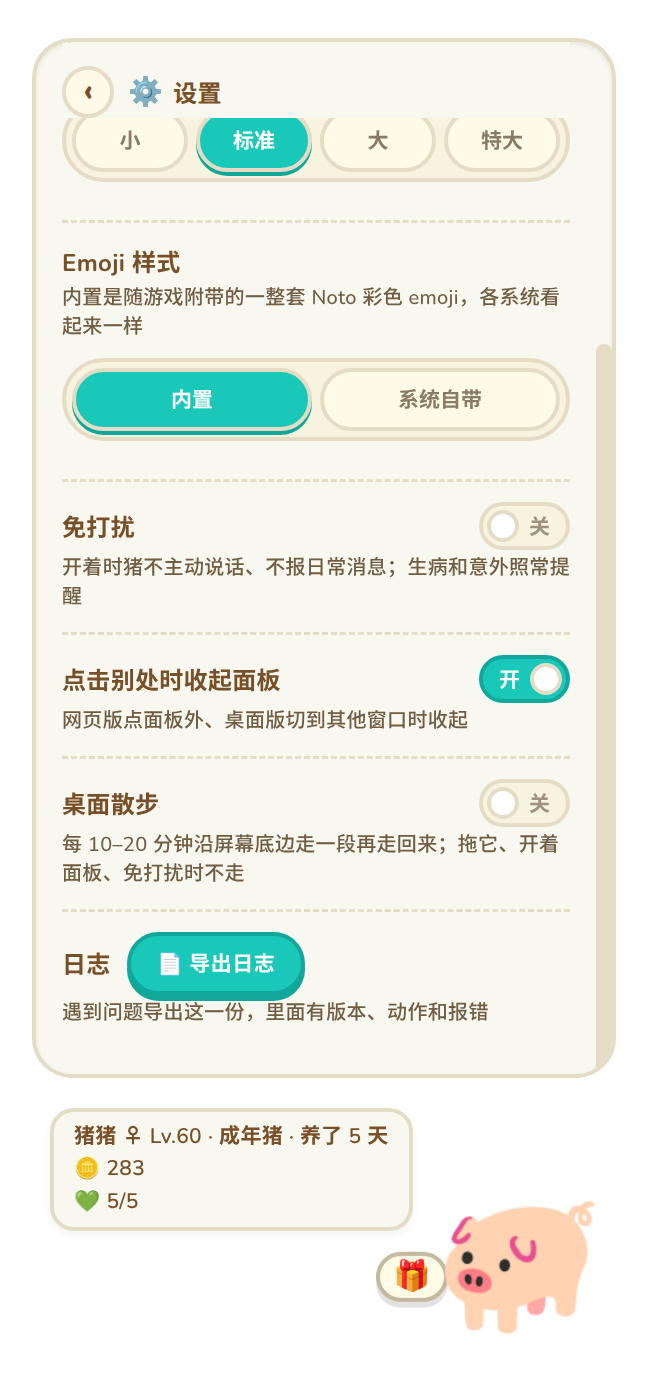
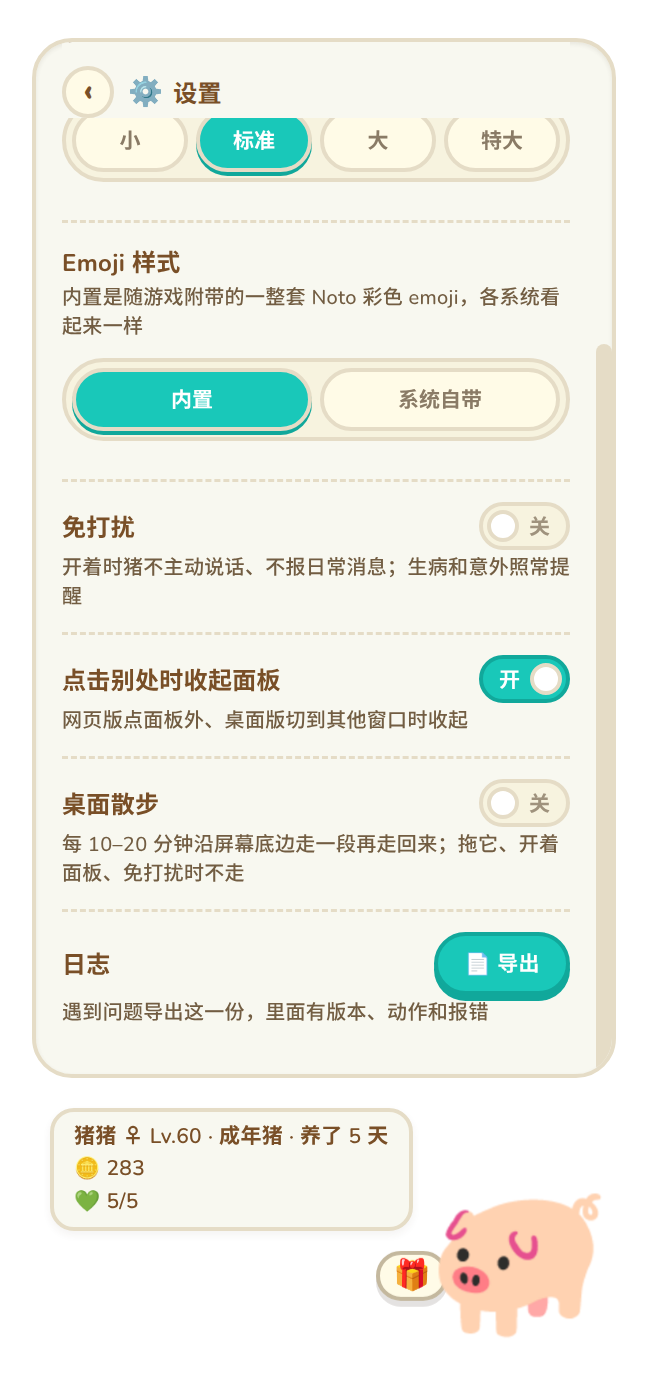
style(pig): 导出按钮和扩展失败提示对齐项目既有样式
- 设置里的导出按钮原来只有 dp-mini，没跟「更新 / 扩展」一样顶到右边
  （那两个是靠 dp-update-entry 的 margin-left:auto）。改成在 .dp-set-head 里
  统一给 .dp-mini 加 margin-left:auto，按钮文案也跟着「🔄 更新 / 🧩 扩展」
  改成「📄 导出」。
- 扩展下载失败不再自造一个带按钮的提示块：失败原因用跟「加载出错」同一个
  .dp-ext-note 小字，卡片上那一个按钮自己改叫「重试」，不新增按钮。
- 验收截图换成修正后的桌面版设置页。

diff --git a/client.js b/client.js
@@ -3896,8 +3896,6 @@
     ".dp-ext-intro{font-size:10.5px;line-height:1.5;color:var(--ac-text-2);margin:0 0 4px}",
     ".dp-ext-emoji{font-size:20px;line-height:1;margin-right:2px}",
     ".dp-ext-note{margin-top:6px;font-size:10px;font-weight:700;color:#c7781a}",
-    // 下载失败留在卡片上：左边原因、右边「重试」，别只闪一下气泡。
-    ".dp-ext-failed{display:flex;align-items:center;justify-content:space-between;gap:8px;color:#b4462a}",
     ".dp-ext-later{margin-top:12px;text-align:center;font-size:10px;color:var(--ac-text-2)}",
     ".dp-ext-section{display:flex;align-items:center;justify-content:space-between;margin:12px 2px 6px;font-size:11px;font-weight:800;color:var(--ac-text-2);letter-spacing:.04em}",
     ".dp-ext-actions{display:flex;align-items:center;justify-content:flex-start;gap:8px;margin-top:8px;flex-wrap:wrap}",
@@ -3910,6 +3908,8 @@
     ".dp-set:first-child{padding-top:2px}.dp-set:last-child{border-bottom:0}",
     ".dp-set-head{display:flex;flex-wrap:wrap;align-items:center;gap:2px 8px}",
     ".dp-set-head b{font-size:12px;color:var(--ac-text)}",
+    // 设置行里的按钮一律挂在最右边：标题和小字占左边，右边的操作顶到卡片边缘。
+    ".dp-set-head>.dp-mini{margin-left:auto;flex:none}",
     ".dp-set-head small{flex-basis:100%;order:3;font-size:10px;line-height:1.45}",
     ".dp-seg{display:flex;gap:4px;margin-top:8px;padding:3px;border-radius:var(--ac-pill);background:var(--ac-bg-content);",
     "border:2px solid var(--ac-border-light)}",
@@ -5398,16 +5398,9 @@
     });
   }
   var downloading = (key) => download.key === key;
-  function failedNote(ui, key) {
-    const note = el("div", "dp-ext-note dp-ext-failed");
-    note.appendChild(el("span", null, "\u6CA1\u88C5\u4E0A\uFF1A" + download.error));
-    const retry = button("dp-mini", { "data-ext-retry": key }, function() {
-      startInstall(ui, key);
-    });
-    retry.textContent = "\u91CD\u8BD5";
-    retry.disabled = download.key !== "";
-    note.appendChild(retry);
-    return note;
+  function installLabel(key, normal) {
+    if (downloading(key)) return "\u4E0B\u8F7D\u4E2D\u2026";
+    return download.failed === key ? "\u91CD\u8BD5" : normal;
   }
   function extensionUpdateAvailable(ui) {
     if (!online.loaded || online.stamp !== stampOf(ui.view)) loadOnline(ui, false);
@@ -5453,7 +5446,7 @@
     var note = extension.on ? closingNote(ui.view, extension.key) : "";
     if (note) card2.appendChild(el("div", "dp-ext-note", note));
     if (extension.error) card2.appendChild(el("div", "dp-ext-note", "\u52A0\u8F7D\u51FA\u9519\uFF1A" + extension.error));
-    if (download.failed === extension.key) card2.appendChild(failedNote(ui, extension.key));
+    if (download.failed === extension.key) card2.appendChild(el("div", "dp-ext-note", "\u6CA1\u88C5\u4E0A\uFF1A" + download.error));
     var newer = online.entries.find(function(entry) {
       return entry.key === extension.key && entry.update === true;
     });
@@ -5468,7 +5461,7 @@
       var update = button("dp-mini", { "data-ext-update": extension.key }, function() {
         startInstall(ui, extension.key);
       });
-      update.textContent = downloading(extension.key) ? "\u66F4\u65B0\u4E2D\u2026" : "\u66F4\u65B0\u5230 " + str(newer.version, "");
+      update.textContent = installLabel(extension.key, "\u66F4\u65B0\u5230 " + str(newer.version, ""));
       update.disabled = download.key !== "";
       row.appendChild(update);
     }
@@ -5526,12 +5519,12 @@
         var get = button("dp-mini", { "data-ext-install": entry.key }, function() {
           startInstall(ui, entry.key);
         });
-        get.textContent = downloading(entry.key) ? "\u4E0B\u8F7D\u4E2D\u2026" : entry.builtin ? "\u91CD\u65B0\u5B89\u88C5" : "\u4E0B\u8F7D";
+        get.textContent = installLabel(entry.key, entry.builtin ? "\u91CD\u65B0\u5B89\u88C5" : "\u4E0B\u8F7D");
         get.disabled = downloading(entry.key) || download.key !== "" || entry.blocked !== null && entry.blocked !== void 0;
         head.appendChild(get);
         if (entry.description) head.appendChild(el("small", "dp-dim", str(entry.description, "")));
         card2.appendChild(head);
-        if (download.failed === entry.key) card2.appendChild(failedNote(ui, entry.key));
+        if (download.failed === entry.key) card2.appendChild(el("div", "dp-ext-note", "\u6CA1\u88C5\u4E0A\uFF1A" + download.error));
         if (entry.blocked === "game-too-old") card2.appendChild(el("div", "dp-ext-note", "\u9700\u8981\u6E38\u620F v" + str(entry.minGame, "") + "\uFF0C\u5148\u66F4\u65B0\u6E38\u620F"));
         else if (entry.builtin) card2.appendChild(el("div", "dp-ext-note", "\u4EE3\u7801\u5728\u6E38\u620F\u91CC\uFF0C\u88C5\u56DE\u6765\u4E0D\u7528\u4E0B\u8F7D\uFF0C\u4ECE\u96F6\u5F00\u59CB"));
         else if (downloading(entry.key)) card2.appendChild(el("div", "dp-ext-note", "\u6B63\u5728\u4E0B\u8F7D\uFF0C\u7F51\u7EDC\u6162\u7684\u65F6\u5019\u8981\u7B49\u4E00\u4F1A\u513F"));
@@ -6735,7 +6728,7 @@
     const exportButton = button("dp-mini", { "data-export-logs": "true" }, function() {
       runExport(ui, exportButton);
     });
-    exportButton.textContent = "\u{1F4C4} \u5BFC\u51FA\u65E5\u5FD7";
+    exportButton.textContent = "\u{1F4C4} \u5BFC\u51FA";
     logs.head.appendChild(exportButton);
     if (exporting) exportButton.disabled = true;
   }

diff --git a/src/client/tabs/extensions.js b/src/client/tabs/extensions.js
@@ -71,15 +71,10 @@ function loadOnline(ui, force) {
 
 const downloading = key => download.key === key
 
-/** 下载失败留在卡片上：原因 + 一个「重试」，不用去猜刚才那下有没有生效。 */
-function failedNote(ui, key) {
-  const note = el('div', 'dp-ext-note dp-ext-failed')
-  note.appendChild(el('span', null, '没装上：' + download.error))
-  const retry = button('dp-mini', { 'data-ext-retry': key }, function () { startInstall(ui, key) })
-  retry.textContent = '重试'
-  retry.disabled = download.key !== ''
-  note.appendChild(retry)
-  return note
+/** 卡片上那个按钮的文案：正在下 / 上次失败改成重试 / 平时的名字。 */
+function installLabel(key, normal) {
+  if (downloading(key)) return '下载中…'
+  return download.failed === key ? '重试' : normal
 }
 
 /** 主菜单与设置共用的扩展更新红点。 */
@@ -121,7 +116,7 @@ function localCard(ui, extension) {
   var note = extension.on ? closingNote(ui.view, extension.key) : ''
   if (note) card.appendChild(el('div', 'dp-ext-note', note))
   if (extension.error) card.appendChild(el('div', 'dp-ext-note', '加载出错：' + extension.error))
-  if (download.failed === extension.key) card.appendChild(failedNote(ui, extension.key))
+  if (download.failed === extension.key) card.appendChild(el('div', 'dp-ext-note', '没装上：' + download.error))
   var newer = online.entries.find(function (entry) { return entry.key === extension.key && entry.update === true })
 
   // 开关和删除并排放在卡片左下（rc.1 反馈）。
@@ -134,7 +129,7 @@ function localCard(ui, extension) {
   row.appendChild(toggle)
   if (newer) {
     var update = button('dp-mini', { 'data-ext-update': extension.key }, function () { startInstall(ui, extension.key) })
-    update.textContent = downloading(extension.key) ? '更新中…' : '更新到 ' + str(newer.version, '')
+    update.textContent = installLabel(extension.key, '更新到 ' + str(newer.version, ''))
     update.disabled = download.key !== ''
     row.appendChild(update)
   }
@@ -174,12 +169,12 @@ function renderOnline(ui) {
       head.appendChild(el('span', 'dp-ext-emoji', str(entry.emoji, '🧩')))
       head.appendChild(el('b', null, str(entry.label, entry.key) + (entry.builtin ? ' · 内置' : ' ' + str(entry.version, ''))))
       var get = button('dp-mini', { 'data-ext-install': entry.key }, function () { startInstall(ui, entry.key) })
-      get.textContent = downloading(entry.key) ? '下载中…' : (entry.builtin ? '重新安装' : '下载')
+      get.textContent = installLabel(entry.key, entry.builtin ? '重新安装' : '下载')
       get.disabled = downloading(entry.key) || download.key !== '' || (entry.blocked !== null && entry.blocked !== undefined)
       head.appendChild(get)
       if (entry.description) head.appendChild(el('small', 'dp-dim', str(entry.description, '')))
       card.appendChild(head)
-      if (download.failed === entry.key) card.appendChild(failedNote(ui, entry.key))
+      if (download.failed === entry.key) card.appendChild(el('div', 'dp-ext-note', '没装上：' + download.error))
       if (entry.blocked === 'game-too-old') card.appendChild(el('div', 'dp-ext-note', '需要游戏 v' + str(entry.minGame, '') + '，先更新游戏'))
       else if (entry.builtin) card.appendChild(el('div', 'dp-ext-note', '代码在游戏里，装回来不用下载，从零开始'))
       else if (downloading(entry.key)) card.appendChild(el('div', 'dp-ext-note', '正在下载，网络慢的时候要等一会儿'))

diff --git a/test/extension-download-client.test.js b/test/extension-download-client.test.js
@@ -3,7 +3,7 @@
 import assert from 'node:assert/strict'
 import { test } from 'node:test'
 
-import { SNAPSHOT, contentOf, findByAttr, findByClass, mount, openPanel, settle } from './helpers/bundle.js'
+import { SNAPSHOT, contentOf, findByAttr, mount, openPanel, settle } from './helpers/bundle.js'
 
 const LOCAL = [
   { key: 'pomodoro', label: '番茄钟', on: true, installed: true, builtin: true, apps: ['pomodoro'], dexSections: [], shopKinds: [] },
@@ -46,7 +46,7 @@ test('点下载立刻显示「下载中…」并挡住重复点击', async () =>
   assert.equal(during.disabled, true)
 })
 
-test('下载失败留在卡片上，说清原因，并且能重试', async () => {
+test('下载失败留在卡片上，说清原因，按钮变成「重试」', async () => {
   const { dom, calls } = await openExtensions({
     status: { ...SNAPSHOT, extensions: LOCAL },
     onlineResponse: ONLINE,
@@ -54,11 +54,12 @@ test('下载失败留在卡片上，说清原因，并且能重试', async () =>
   })
   findByAttr(contentOf(dom), 'data-ext-install', 'farm').fire('click')
   await settle()
-  const note = findByClass(contentOf(dom), 'dp-ext-failed')
-  assert.ok(note, 'the failure must stay on the card, not only flash in a bubble')
-  assert.match(note.allText(), /连接 github\.com 超时/)
-  const retry = findByAttr(contentOf(dom), 'data-ext-retry', 'farm')
-  assert.ok(retry, 'a retry button must be there')
+  // 失败原因留在卡片上（不只是一闪而过的气泡），跟「加载出错」同一个样式。
+  const card = findByAttr(contentOf(dom), 'data-online-extension', 'farm')
+  assert.match(card.allText(), /没装上：server\.js 下载失败：连接 github\.com 超时/)
+  // 卡片上还是那一个按钮，只是改叫「重试」——不去另造一个按钮。
+  const retry = findByAttr(contentOf(dom), 'data-ext-install', 'farm')
+  assert.equal(retry.textContent, '重试')
   assert.equal(installCalls(calls).length, 1)
 
   retry.fire('click')
@@ -74,7 +75,7 @@ test('装上以后卡片消失，不再留失败提示', async () => {
   })
   findByAttr(contentOf(dom), 'data-ext-install', 'farm').fire('click')
   await settle()
-  assert.equal(findByClass(contentOf(dom), 'dp-ext-failed'), undefined, 'no failure note left behind')
+  assert.equal(findByAttr(contentOf(dom), 'data-online-extension', 'farm'), undefined, 'no card, no failure note')
   assert.equal(findByAttr(contentOf(dom), 'data-extension', 'farm') !== null, true, 'now listed as a local extension')
   assert.match(String(installCalls(calls)[0].body), /"key":"farm"/)
 })

diff --git a/src/client/css-tiles.js b/src/client/css-tiles.js
@@ -94,8 +94,6 @@ export const CSS_TILES = [
   '.dp-ext-intro{font-size:10.5px;line-height:1.5;color:var(--ac-text-2);margin:0 0 4px}',
   '.dp-ext-emoji{font-size:20px;line-height:1;margin-right:2px}',
   '.dp-ext-note{margin-top:6px;font-size:10px;font-weight:700;color:#c7781a}',
-  // 下载失败留在卡片上：左边原因、右边「重试」，别只闪一下气泡。
-  '.dp-ext-failed{display:flex;align-items:center;justify-content:space-between;gap:8px;color:#b4462a}',
   '.dp-ext-later{margin-top:12px;text-align:center;font-size:10px;color:var(--ac-text-2)}',
   '.dp-ext-section{display:flex;align-items:center;justify-content:space-between;margin:12px 2px 6px;font-size:11px;font-weight:800;color:var(--ac-text-2);letter-spacing:.04em}',
   '.dp-ext-actions{display:flex;align-items:center;justify-content:flex-start;gap:8px;margin-top:8px;flex-wrap:wrap}',
@@ -108,6 +106,8 @@ export const CSS_TILES = [
   '.dp-set:first-child{padding-top:2px}.dp-set:last-child{border-bottom:0}',
   '.dp-set-head{display:flex;flex-wrap:wrap;align-items:center;gap:2px 8px}',
   '.dp-set-head b{font-size:12px;color:var(--ac-text)}',
+  // 设置行里的按钮一律挂在最右边：标题和小字占左边，右边的操作顶到卡片边缘。
+  '.dp-set-head>.dp-mini{margin-left:auto;flex:none}',
   '.dp-set-head small{flex-basis:100%;order:3;font-size:10px;line-height:1.45}',
   '.dp-seg{display:flex;gap:4px;margin-top:8px;padding:3px;border-radius:var(--ac-pill);background:var(--ac-bg-content);',
   'border:2px solid var(--ac-border-light)}',

diff --git a/src/client/tabs/settings.js b/src/client/tabs/settings.js
@@ -113,7 +113,7 @@ export function renderSettingsTab(ui) {
   // 日志：猪出问题时导出这一份，里面记着做了什么、哪一步失败了。
   const logs = section(ui, '日志', '遇到问题导出这一份，里面有版本、动作和报错')
   const exportButton = button('dp-mini', { 'data-export-logs': 'true' }, function () { runExport(ui, exportButton) })
-  exportButton.textContent = '📄 导出日志'
+  exportButton.textContent = '📄 导出'
   logs.head.appendChild(exportButton)
   if (exporting) exportButton.disabled = true
 }

diff --git a/test/log-export-client.test.js b/test/log-export-client.test.js
@@ -74,7 +74,7 @@ test('用户取消另存为时不报错，界面当没事发生', async () => {
   // 面板重画过，要重新找那个按钮。
   const after = findByAttr(contentOf(dom), 'data-export-logs', 'true')
   assert.equal(after.disabled, false, 'the button comes back after a cancel')
-  assert.equal(after.textContent, '📄 导出日志')
+  assert.equal(after.textContent, '📄 导出')
 })
 
 test('没有另存为可用时退回下载，不让用户什么都拿不到', async () => {
